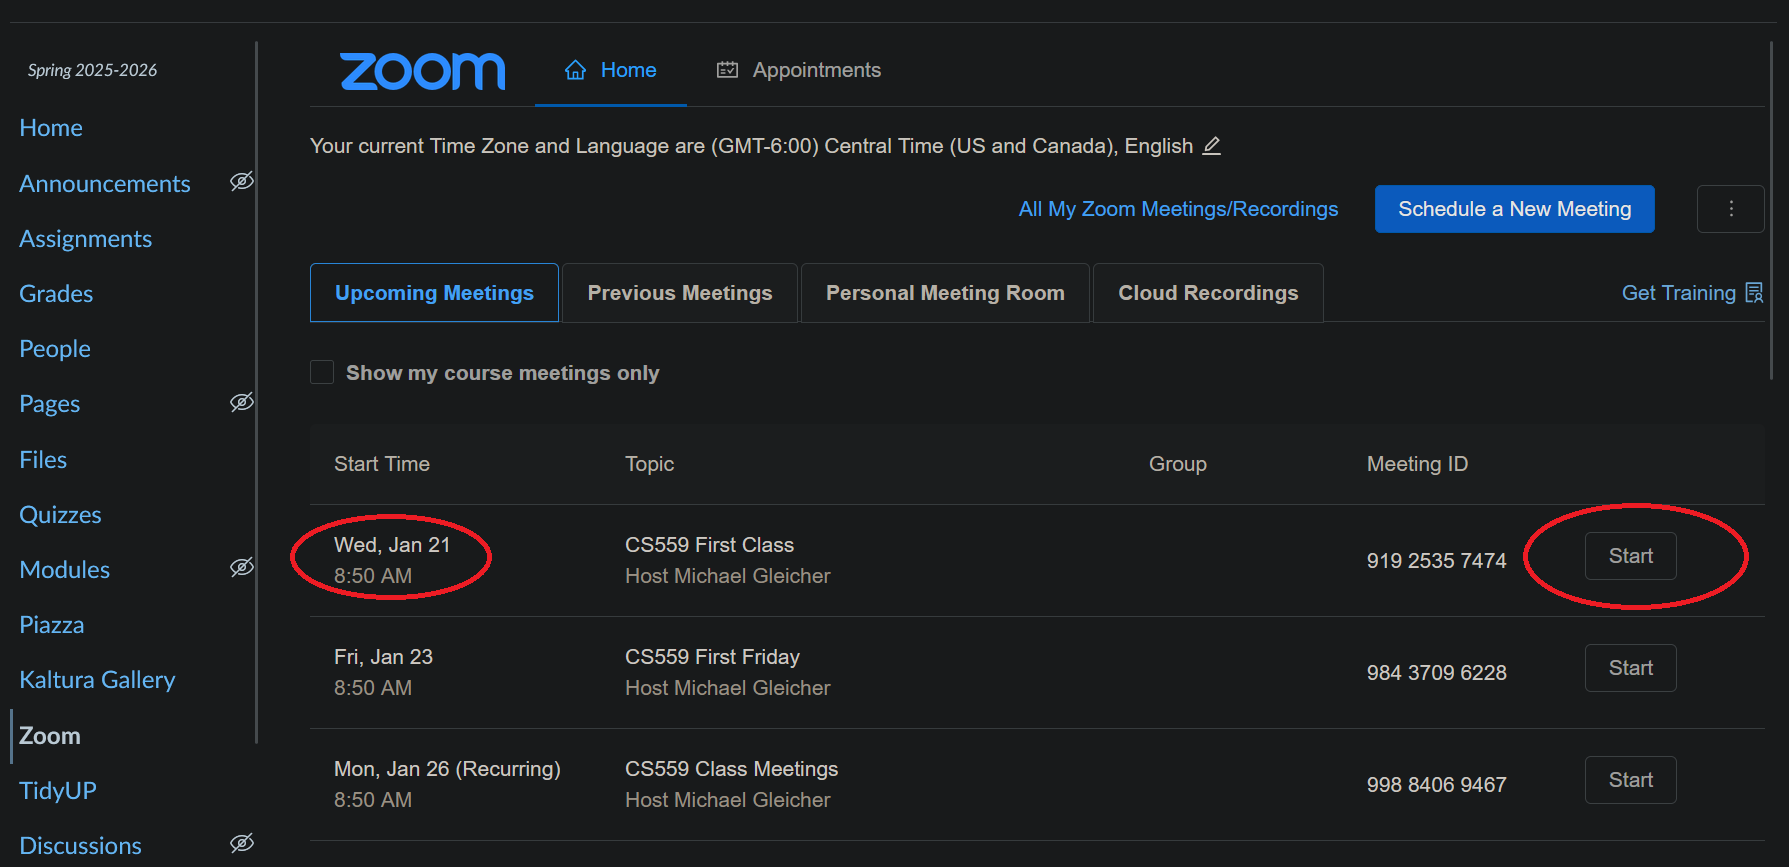
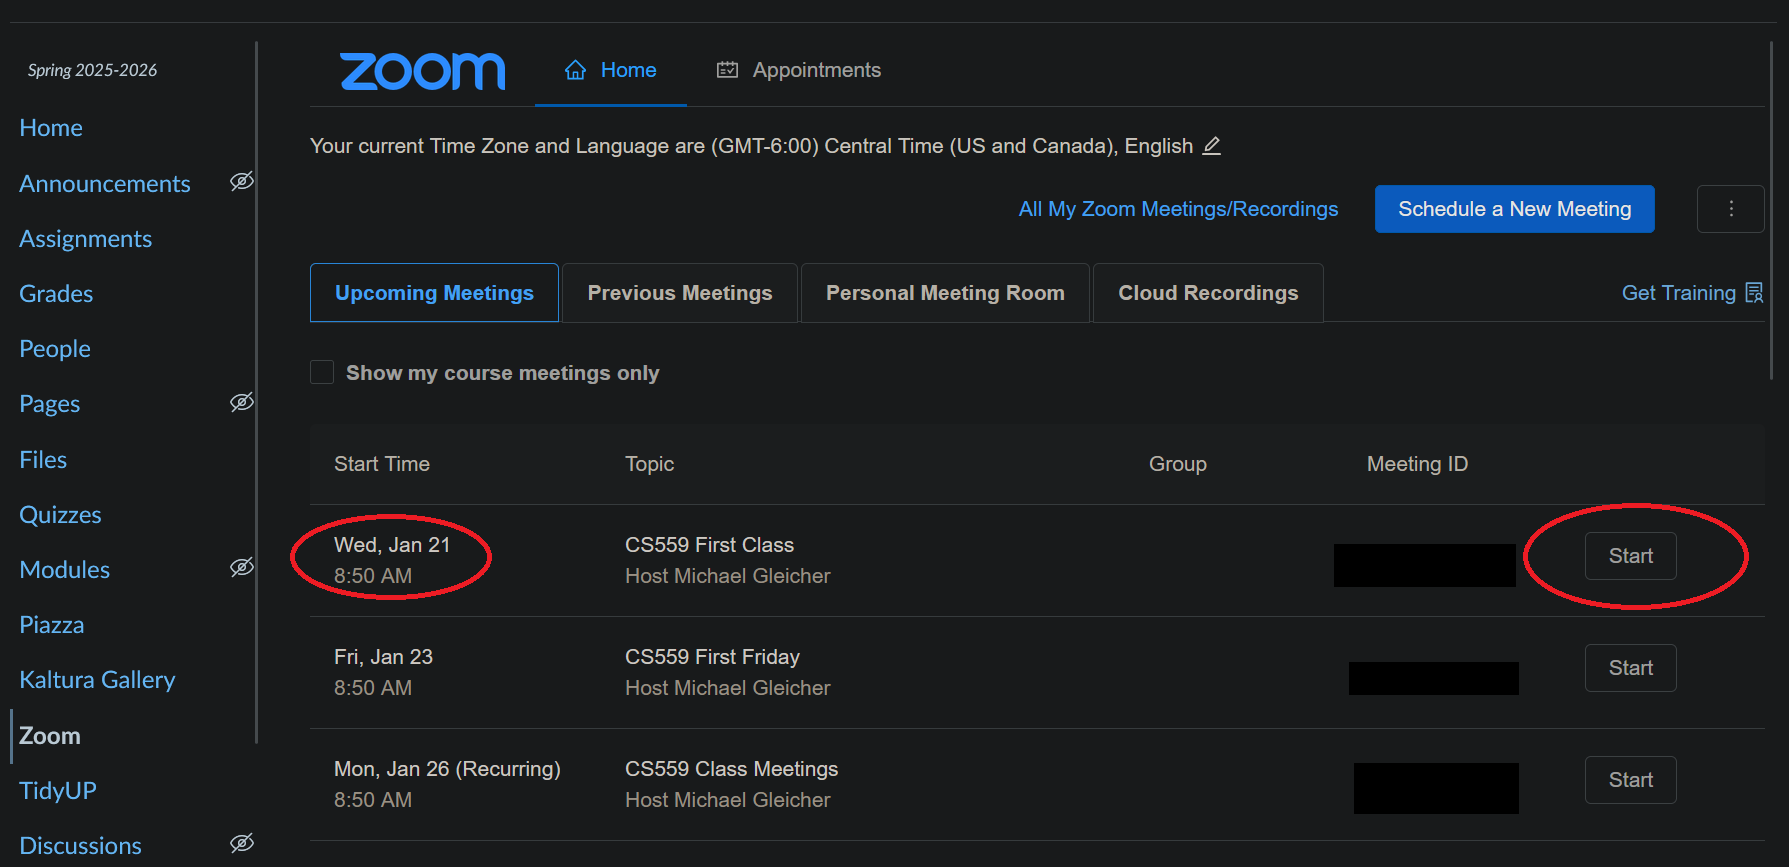
updated Zoom tutorial with SSO login information

Changed region(s): [[0.7378, 0.872, 0.8608, 0.9654], [0.7378, 0.7474, 0.8608, 0.8097], [0.7378, 0.6228, 0.8608, 0.6851]]

diff --git a/content/zoom/index.md b/content/zoom/index.md
@@ -17,6 +17,45 @@ Zoom is a video conferencing platform that we'll use for online class sessions a
 
 **Tip:** While you can use Zoom in a web browser, the desktop app provides the best experience with more features.
 
+## Signing In
+
+For class meetings you will need to be an authenticated Zoom user. This means that, when you log into Zoom, you need to sign in using SSO, and the SSO domain needs to be "uwmadison".
+
+### Zoom App
+
+Click on the SSO Login Button and it will open your browser to the school login page.
+
+![SSO Login Button](./SSOLoginButton.png)
+
+Login using your school credentials.
+
+After loging in, it should take you back to the Zoom App. If it does not, then check the app to see if you were logged in but not redirected back to the app. If the app still shows that you are not logged in, try logging into the browser-based zoom first before retrying to log into the zoom app.
+
+When you are logged in, the Zoom app should look something like the following.
+
+![Zoom App](./ZoomApp.png)
+
+### Browser-Based Zoom
+
+Click the "Sign In" button on zoom.us.
+
+![Browser Sign In Button](./BrowserSignInButton.png)
+
+Click on the "SSO" sign in option.
+
+![Browser SSO Button](./BrowserSSOButton.png)
+
+Type in "uwmadison" into the company domain. And hit "continue".
+
+![UW Madison Company Domain Box](./UWMadisonBox.png)
+
+This should take you to the University of Wisconsin-Madison login page.
+Login with your credentials.
+
+After you are done signing in, you should see a page that looks something like this.
+
+![Browser-Based Zoom](./BrowserZoom.png)
+
 ## Joining a Meeting
 
 There are multiple ways to join a meeting.
@@ -162,7 +201,6 @@ To use a virtual background:
 2. Select **Choose Virtual Background**
 3. Pick a preset background or upload your own
 4. For best results, use a plain wall behind you or enable background blur
-
 
 ## Keyboard Shortcuts
 